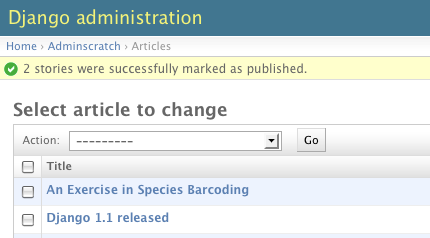
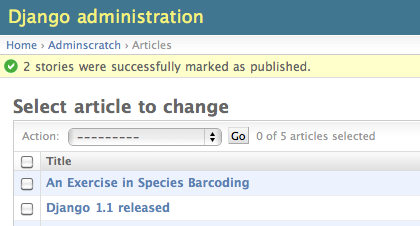
Fixed #10615 - Added selection counter to admin change list. Thanks to Martin Mahner for the idea and initial patch.

diff --git a/django/contrib/admin/media/js/actions.js b/django/contrib/admin/media/js/actions.js
@@ -1,10 +1,22 @@
 var Actions = {
     init: function() {
-        var selectAll = document.getElementById('action-toggle');
+        counterSpans = document.getElementsBySelector('span._acnt');
+        counterContainer = document.getElementsBySelector('span.action_counter');
+        actionCheckboxes = document.getElementsBySelector('tr input.action-select');
+        selectAll = document.getElementById('action-toggle');
+        for(var i = 0; i < counterContainer.length; i++) {
+            counterContainer[i].style.display = 'inline';
+        }
         if (selectAll) {
             selectAll.style.display = 'inline';
             addEvent(selectAll, 'click', function() {
                 Actions.checker(selectAll.checked);
+                Actions.counter();
+            });
+        }
+        for(var i = 0; i < actionCheckboxes.length; i++) {
+            addEvent(actionCheckboxes[i], 'click', function() {
+                Actions.counter();
             });
         }
         var changelistTable = document.getElementsBySelector('#changelist table')[0];
@@ -16,6 +28,7 @@ var Actions = {
                 if (target.className == 'action-select') {
                     var tr = target.parentNode.parentNode;
                     Actions.toggleRow(tr, target.checked);
+                    Actions.checked();
                 }
             });
         }
@@ -27,11 +40,24 @@ var Actions = {
             tr.className = tr.className.replace(' selected', '');
         }  
     },
+    checked: function() {
+        selectAll.checked = false;
+    },
     checker: function(checked) {
-        var actionCheckboxes = document.getElementsBySelector('tr input.action-select');
         for(var i = 0; i < actionCheckboxes.length; i++) {
             actionCheckboxes[i].checked = checked;
             Actions.toggleRow(actionCheckboxes[i].parentNode.parentNode, checked);
+        }
+    },
+    counter: function() {
+        counter = 0;
+        for(var i = 0; i < actionCheckboxes.length; i++) {
+            if(actionCheckboxes[i].checked){
+                counter++;
+            }
+        }
+        for(var i = 0; i < counterSpans.length; i++) {
+            counterSpans[i].innerHTML = counter;
         }
     }
 };

diff --git a/django/contrib/admin/templates/admin/actions.html b/django/contrib/admin/templates/admin/actions.html
@@ -2,4 +2,9 @@
 <div class="actions">
     {% for field in action_form %}<label>{{ field.label }} {{ field }}</label>{% endfor %}
     <button type="submit" class="button" title="{% trans "Run the selected action" %}" name="index" value="{{ action_index|default:0 }}">{% trans "Go" %}</button>
+    {% if actions_selection_counter %}
+    <span class="action_counter">
+      {% blocktrans with cl.result_count as total_count %}<span class="_acnt">0</span> of {{ total_count }} {{ module_name }} selected{% endblocktrans %}
+    </span>
+    {% endif %}
 </div>

diff --git a/django/contrib/admin/media/css/changelists.css b/django/contrib/admin/media/css/changelists.css
@@ -228,6 +228,12 @@
     border-right: 1px solid #ddd;
 }
 
+.action_counter{
+    font-size: 11px;
+    margin: 0 0.5em;
+    display: none;
+}
+
 #changelist table input {
     margin: 0;
 }

diff --git a/django/contrib/admin/options.py b/django/contrib/admin/options.py
@@ -210,6 +210,7 @@ class ModelAdmin(BaseModelAdmin):
     action_form = helpers.ActionForm
     actions_on_top = True
     actions_on_bottom = False
+    actions_selection_counter = True
 
     def __init__(self, model, admin_site):
         self.model = model
@@ -1024,7 +1025,13 @@ class ModelAdmin(BaseModelAdmin):
         else:
             action_form = None
 
+        if cl.result_count == 1:
+            module_name = force_unicode(opts.verbose_name)
+        else:
+            module_name = force_unicode(opts.verbose_name_plural)
+
         context = {
+            'module_name': module_name,
             'title': cl.title,
             'is_popup': cl.is_popup,
             'cl': cl,
@@ -1035,6 +1042,7 @@ class ModelAdmin(BaseModelAdmin):
             'action_form': action_form,
             'actions_on_top': self.actions_on_top,
             'actions_on_bottom': self.actions_on_bottom,
+            'actions_selection_counter': self.actions_selection_counter,
         }
         context.update(extra_context or {})
         context_instance = template.RequestContext(request, current_app=self.admin_site.name)

diff --git a/tests/regressiontests/admin_views/tests.py b/tests/regressiontests/admin_views/tests.py
@@ -1209,6 +1209,13 @@ class AdminActionsTest(TestCase):
         self.assertContains(response, msg)
         self.failUnlessEqual(Subscriber.objects.count(), 2)
 
+    def test_selection_counter(self):
+        """
+        Check if the selection counter is there.
+        """
+        response = self.client.get('/test_admin/admin/admin_views/subscriber/')
+        self.assertContains(response, '<span class="_acnt">0</span> of 2 subscribers selected')
+
 
 class TestCustomChangeList(TestCase):
     fixtures = ['admin-views-users.xml']
